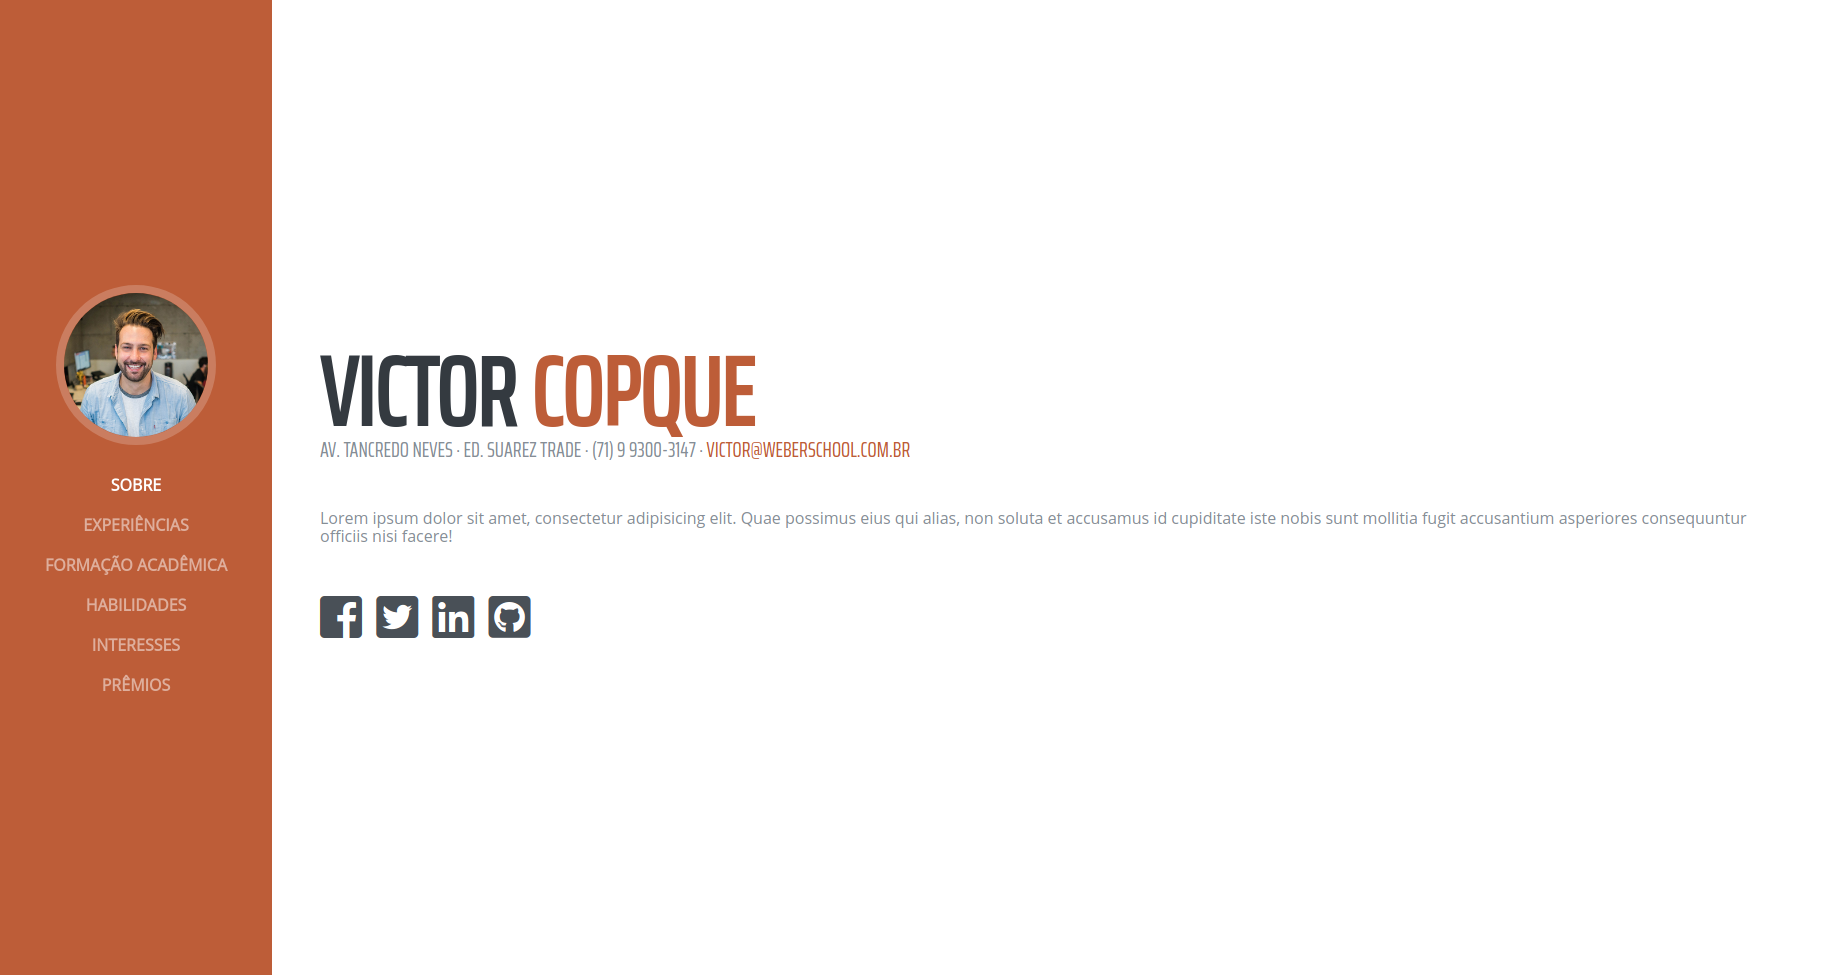
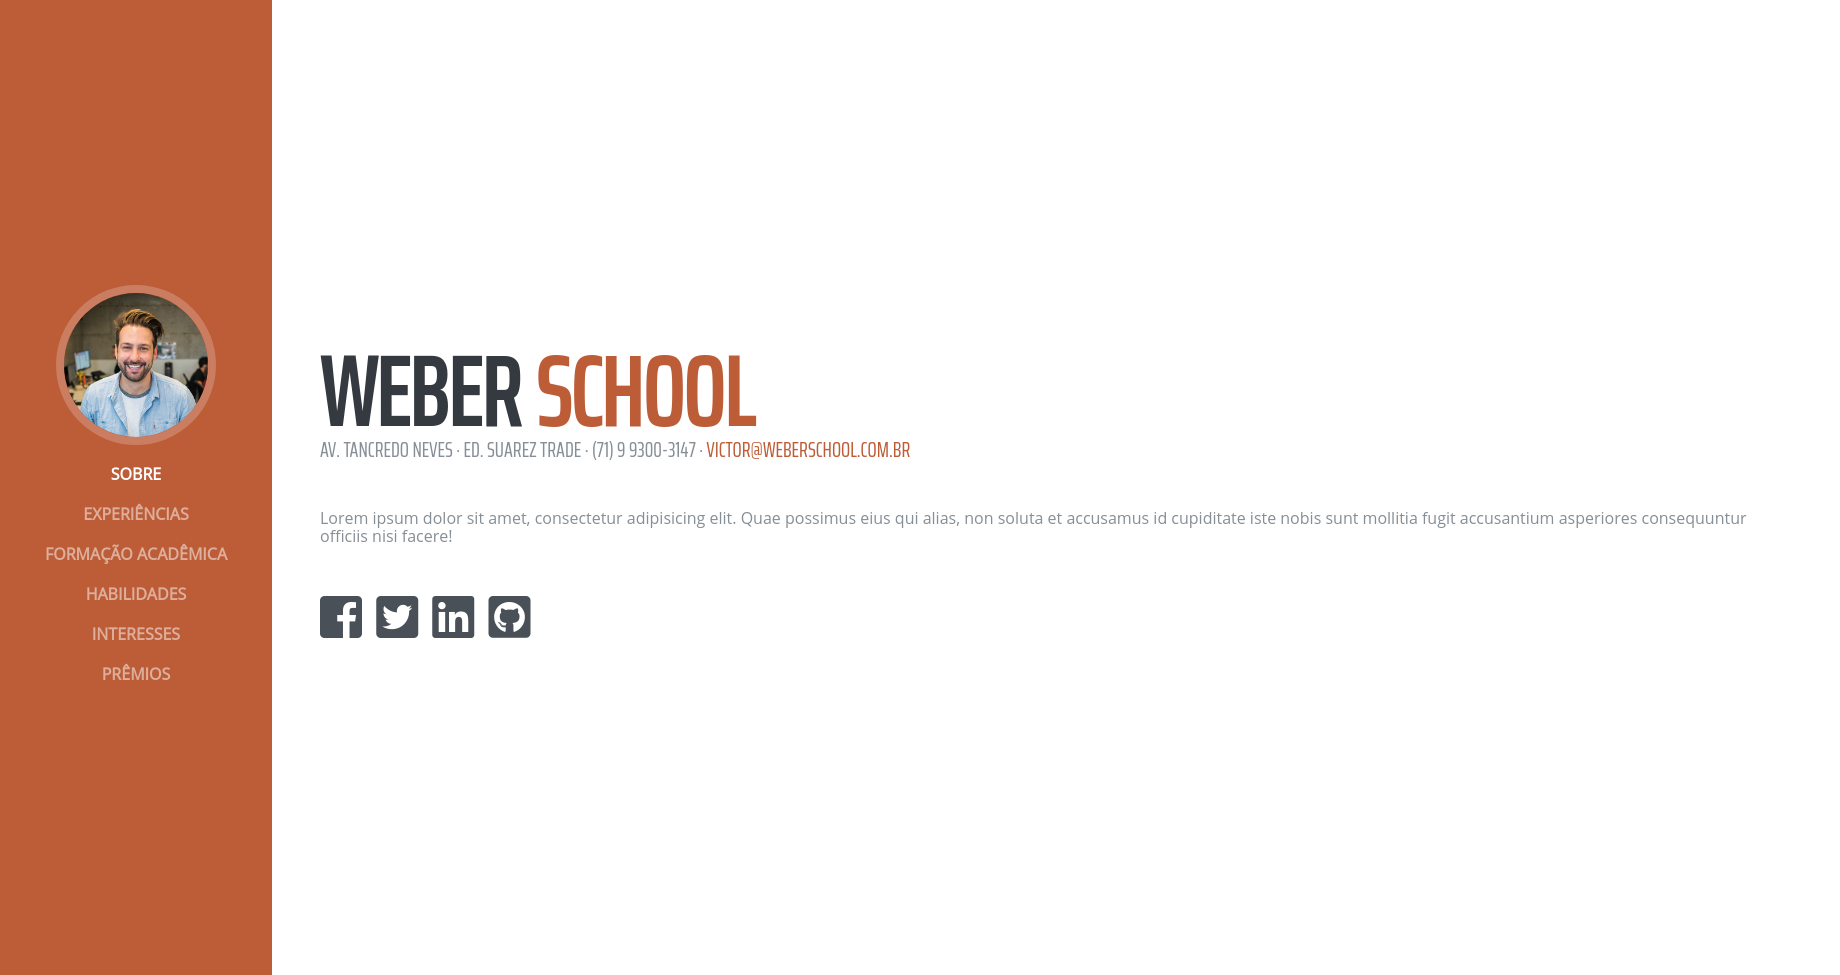
Torna a página responsiva

diff --git a/src/static/css/style.css b/src/static/css/style.css
@@ -17,9 +17,81 @@ body {
   padding-left: 17rem;
 }
 
+@media (max-width: 768px) {
+  body {
+    padding: 0;
+  }
+}
+
+header {
+  position: fixed;
+  top: 0;
+  left: 0;
+  width: 100%;
+  height: auto;
+  display: flex;
+  flex-flow: row wrap;
+  background-color: #bd5d38;
+  padding: 1rem;
+}
+
+@media (min-width: 768px) {
+  header {
+    display: none;
+  }
+}
+
+header h3 {
+  display: flex;
+  flex: 90%;
+  align-items: center;
+  max-width: 90%;
+  font-size: 1.25rem;
+  font-weight: 400;
+  margin: 0;
+  color: #fff;
+}
+
+header nav {
+  width: 100%;
+  height: 0;
+  display: flex;
+  flex-flow: column nowrap;
+  justify-content: center;
+  align-items: flex-start
+}
+
+header a {
+  width: 100%;
+  height: 50px;
+  text-decoration: none;
+  display: none;
+  text-transform: uppercase;
+  font-family: 'Open Sans',serif;
+  font-weight: 600;
+  color: rgba(255,255,255,.5)
+}
+
+header a:hover {
+  color: rgba(255,255,255,.75);
+}
+
+header i {
+  flex: 10%;
+  text-align: center;
+  max-width: 10%;
+  color: rgba(255,255,255,.5)
+}
+
 .container {
   width: 100%;
   height: auto;
+}
+
+@media (max-width: 768px) {
+  .container {
+    padding: 3rem 0 0;
+  }
 }
 
 .container aside {
@@ -37,6 +109,12 @@ body {
   align-items: center;
 }
 
+@media (max-width: 768px) {
+  .container aside {
+    display: none;
+  }
+}
+
 .container aside img {
   height: 160px;
   /* https://www.w3schools.com/css/css_border.asp */
@@ -45,32 +123,24 @@ body {
   margin-bottom: 20px;
 }
 
-.container aside ul {
+.container aside section {
   width: 100%;
-  height: auto;
-  display: flex;
-  flex-flow: column nowrap;
-  justify-content: space-around;
-  padding: 0;
-  margin: 0;
-}
-
-.container aside ul li {
   height: 40px;
   display: flex;
-  justify-content: center;
+  flex-flow: column nowrap;
   align-items: center;
-  list-style: none;
-  cursor: pointer;
-  font-size: 1rem;
-  font-weight: 600;
+  padding: 0;
+  margin: 0;
   /* https://www.w3schools.com/cssref/pr_text_text-transform.asp */
   text-transform: uppercase;
+  font-size: 1rem;
+  font-weight: 600;
+  cursor: pointer;
   color: rgba(255,255,255,.5)
 }
 
 /* https://www.w3schools.com/cssref/sel_hover.asp */
-.container aside ul li:hover {
+.container aside section:hover {
   color: rgba(255,255,255,.75);
 }
 
@@ -92,6 +162,13 @@ body {
   flex-flow: column nowrap;
   justify-content: center;
   align-items: flex-start;
+  border-bottom: 1px solid #dee2e6;
+}
+
+@media (max-width: 768px) {
+  .container main .box-content {
+    min-height: 50vh !important;
+  }
 }
 
 /* https://www.w3schools.com/cssref/sel_firstchild.asp */

diff --git a/index.html b/index.html
@@ -13,24 +13,34 @@
   <link rel="stylesheet" href="src/static/css/style.css">
 </head>
 <body>
+  <header>
+    <h3>Weber School</h3>
+    <i class="fas fa-bars fa-2x"></i>
+    <nav>
+      <a class="nav-item">Sobre</a>
+      <a class="nav-item">Experiências</a>
+      <a class="nav-item">Formação Acadêmica</a>
+      <a class="nav-item">Habilidades</a>
+      <a class="nav-item">Interesses</a>
+      <a class="nav-item">Prêmios</a>
+    </nav>
+  </header>
   <div class="container">
     <!-- https://www.w3schools.com/tags/tag_aside.asp -->
     <aside>
       <!-- https://www.w3schools.com/tags/att_img_alt.asp -->
       <img src="src/static/img/profile.jpg" alt="{Seu nome} - Foto de Perfil">
-      <ul>
-        <li class="nav-item active-link">Sobre</li>
-        <li class="nav-item">Experiências</li>
-        <li class="nav-item">Formação Acadêmica</li>
-        <li class="nav-item">Habilidades</li>
-        <li class="nav-item">Interesses</li>
-        <li class="nav-item">Prêmios</li>
-      </ul>
+      <section class="nav-item active-link">Sobre</section>
+      <section class="nav-item">Experiências</section>
+      <section class="nav-item">Formação Acadêmica</section>
+      <section class="nav-item">Habilidades</section>
+      <section class="nav-item">Interesses</section>
+      <section class="nav-item">Prêmios</section>
     </aside>
     <main>
       <div class="box-content">
-        <h1>Victor <span>Copque</span></h1>
-        <p class="personal-info">Av. Tancredo Neves · Ed. Suarez Trade · (71) 9 9300-3147 · <span>victor@weberschool.com.br</span></p>
+        <h1>Weber <span>School</span></h1>
+        <p class="personal-info">Av. Tancredo Neves · Ed. Suarez Trade · (71) 9 9999-9999 · <span>contato@weberschool.com.br</span></p>
         <p>Lorem ipsum dolor sit amet, consectetur adipisicing elit. Quae possimus eius qui alias, non soluta et accusamus id cupiditate iste nobis sunt mollitia fugit accusantium asperiores consequuntur officiis nisi facere!</p>
         <div>
           <a href="" class="social-link"><i class="fab fa-3x fa-facebook-square"></i></a>
@@ -46,6 +56,7 @@
       <div class="box-content">Weber School</div>
     </main>
   </div>
+  <script src="src/static/js/menu.js" charset="utf-8"></script>
   <script src="src/static/js/transition.js" charset="utf-8"></script>
 </body>
 </html>

diff --git a/src/static/js/transition.js b/src/static/js/transition.js
@@ -1,26 +1,30 @@
 // https://www.w3schools.com/jsref/event_onload.asp
-window.onload = function() {
+window.addEventListener("load", () => {
   // https://www.w3schools.com/Jsref/met_document_getelementsbyclassname.asp
-  let navList = document.getElementsByClassName('nav-item');
+  let navList = document.getElementsByClassName('nav-item')
   // https://developer.mozilla.org/fr/docs/Web/JavaScript/Reference/Objets_globaux/Array/from
-  Array.from(navList).forEach((li) => {
+  Array.from(navList).forEach((elem) => {
     // https://www.w3schools.com/jsref/met_element_addeventlistener.asp
-    li.addEventListener('click', () => {
-      let order = getPosition(li, navList),
+    elem.addEventListener('click', () => {
+      let n = getElemPos(elem, navList),
       boxList = document.getElementsByClassName('box-content'),
       // https://developer.mozilla.org/pt-BR/docs/Web/API/Element/getBoundingClientRect
-      posTop = boxList[order].getBoundingClientRect().top + window.scrollY,
+      posTop = (n <= (navList.length / 2 ) - 1) ? getScrollTopDistance(boxList[n]) : getScrollTopDistance(boxList[n - navList.length / 2])
       // https://developer.mozilla.org/pt-BR/docs/Web/API/Node/parentNode
       element = document.body.parentNode
       return scrollTo(element, posTop, 200)
-    });
-  });
-}
+    })
+  })
+})
 
-function getPosition(element, list) {
+function getElemPos(element, list) {
   for(let i = 0; i < list.length; i++) {
     if(list[i] === element) return i
   }
+}
+
+function getScrollTopDistance(elem) {
+  return elem.getBoundingClientRect().top + window.scrollY
 }
 
 function scrollTo(element, to, duration) {

diff --git a/src/static/js/menu.js b/src/static/js/menu.js
@@ -1,0 +1,23 @@
+window.addEventListener("load", () => {
+  let menu = document.getElementsByClassName('fa-bars')[0],
+  nav = document.getElementsByTagName('nav')[0]
+  menu.addEventListener('click', () => {
+    return (nav.clientHeight === 0) ? showMenu(nav) : hideMenu(nav)
+  })
+})
+
+function hideMenu(elem) {
+  let a = elem.getElementsByTagName('a')
+  elem.style.cssText = "height: 0; margin-top: 0;"
+  return Array.from(a).forEach((link) => {
+    link.style.cssText = "display: none"
+  })
+}
+
+function showMenu(elem) {
+  let a = elem.getElementsByTagName('a')
+  elem.style.cssText = "height: auto; margin-top: 30px;"
+  return Array.from(a).forEach((link) => {
+    link.style.cssText = "display: block"
+  })
+}
